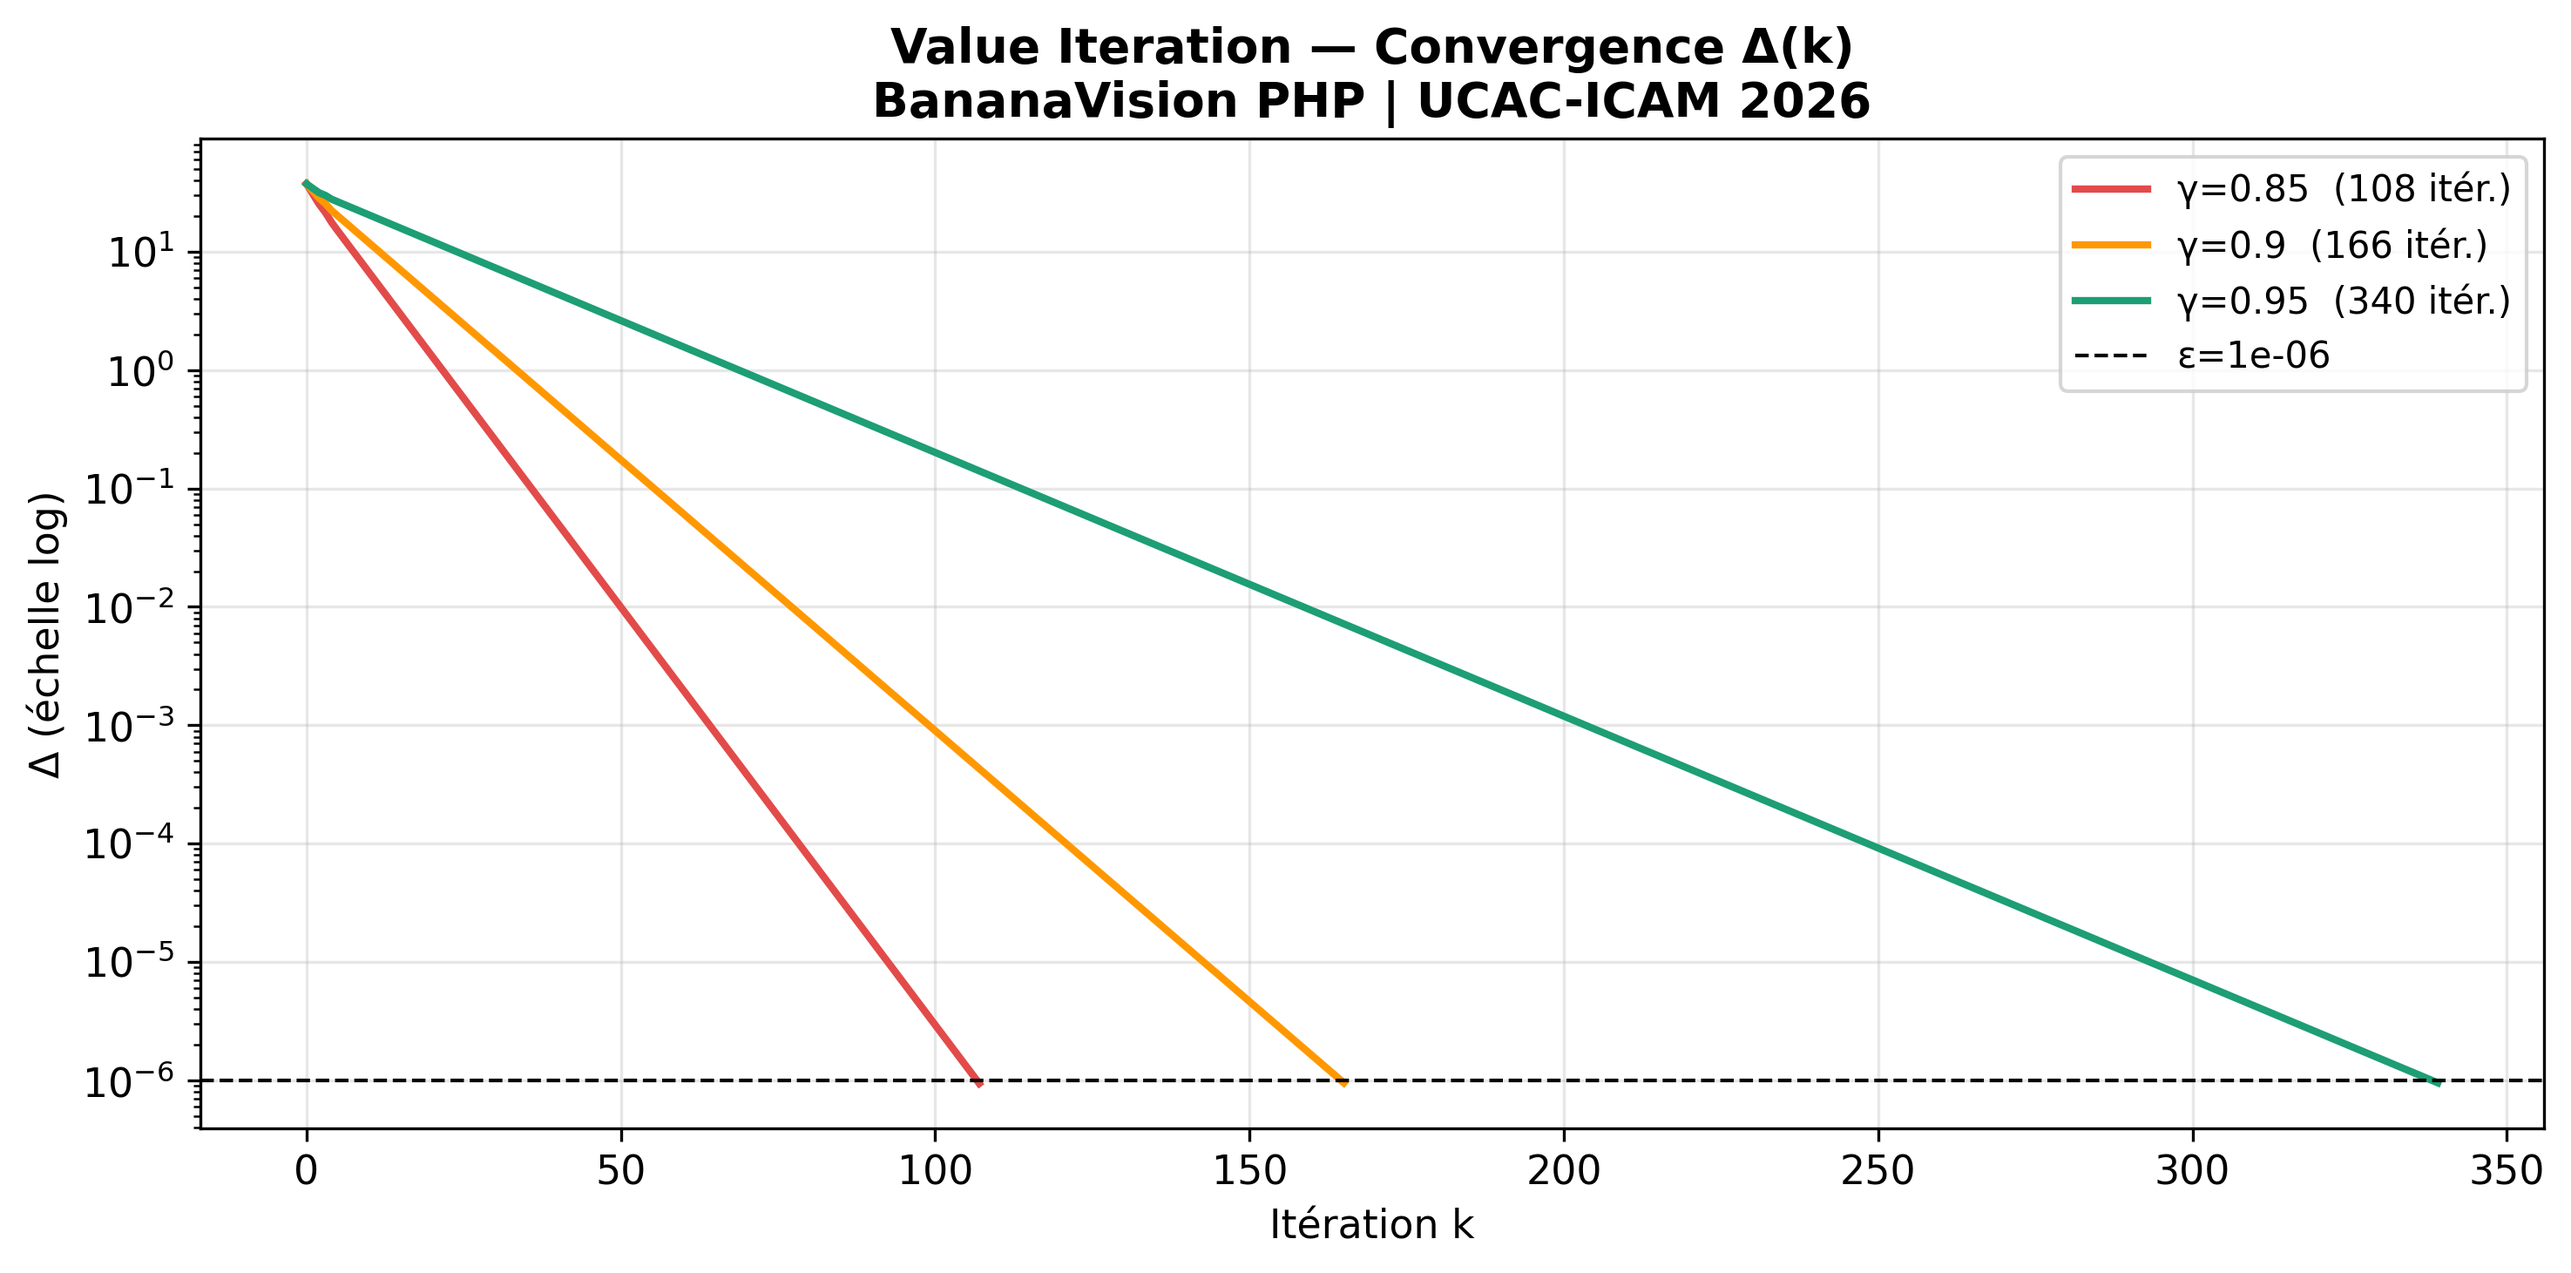
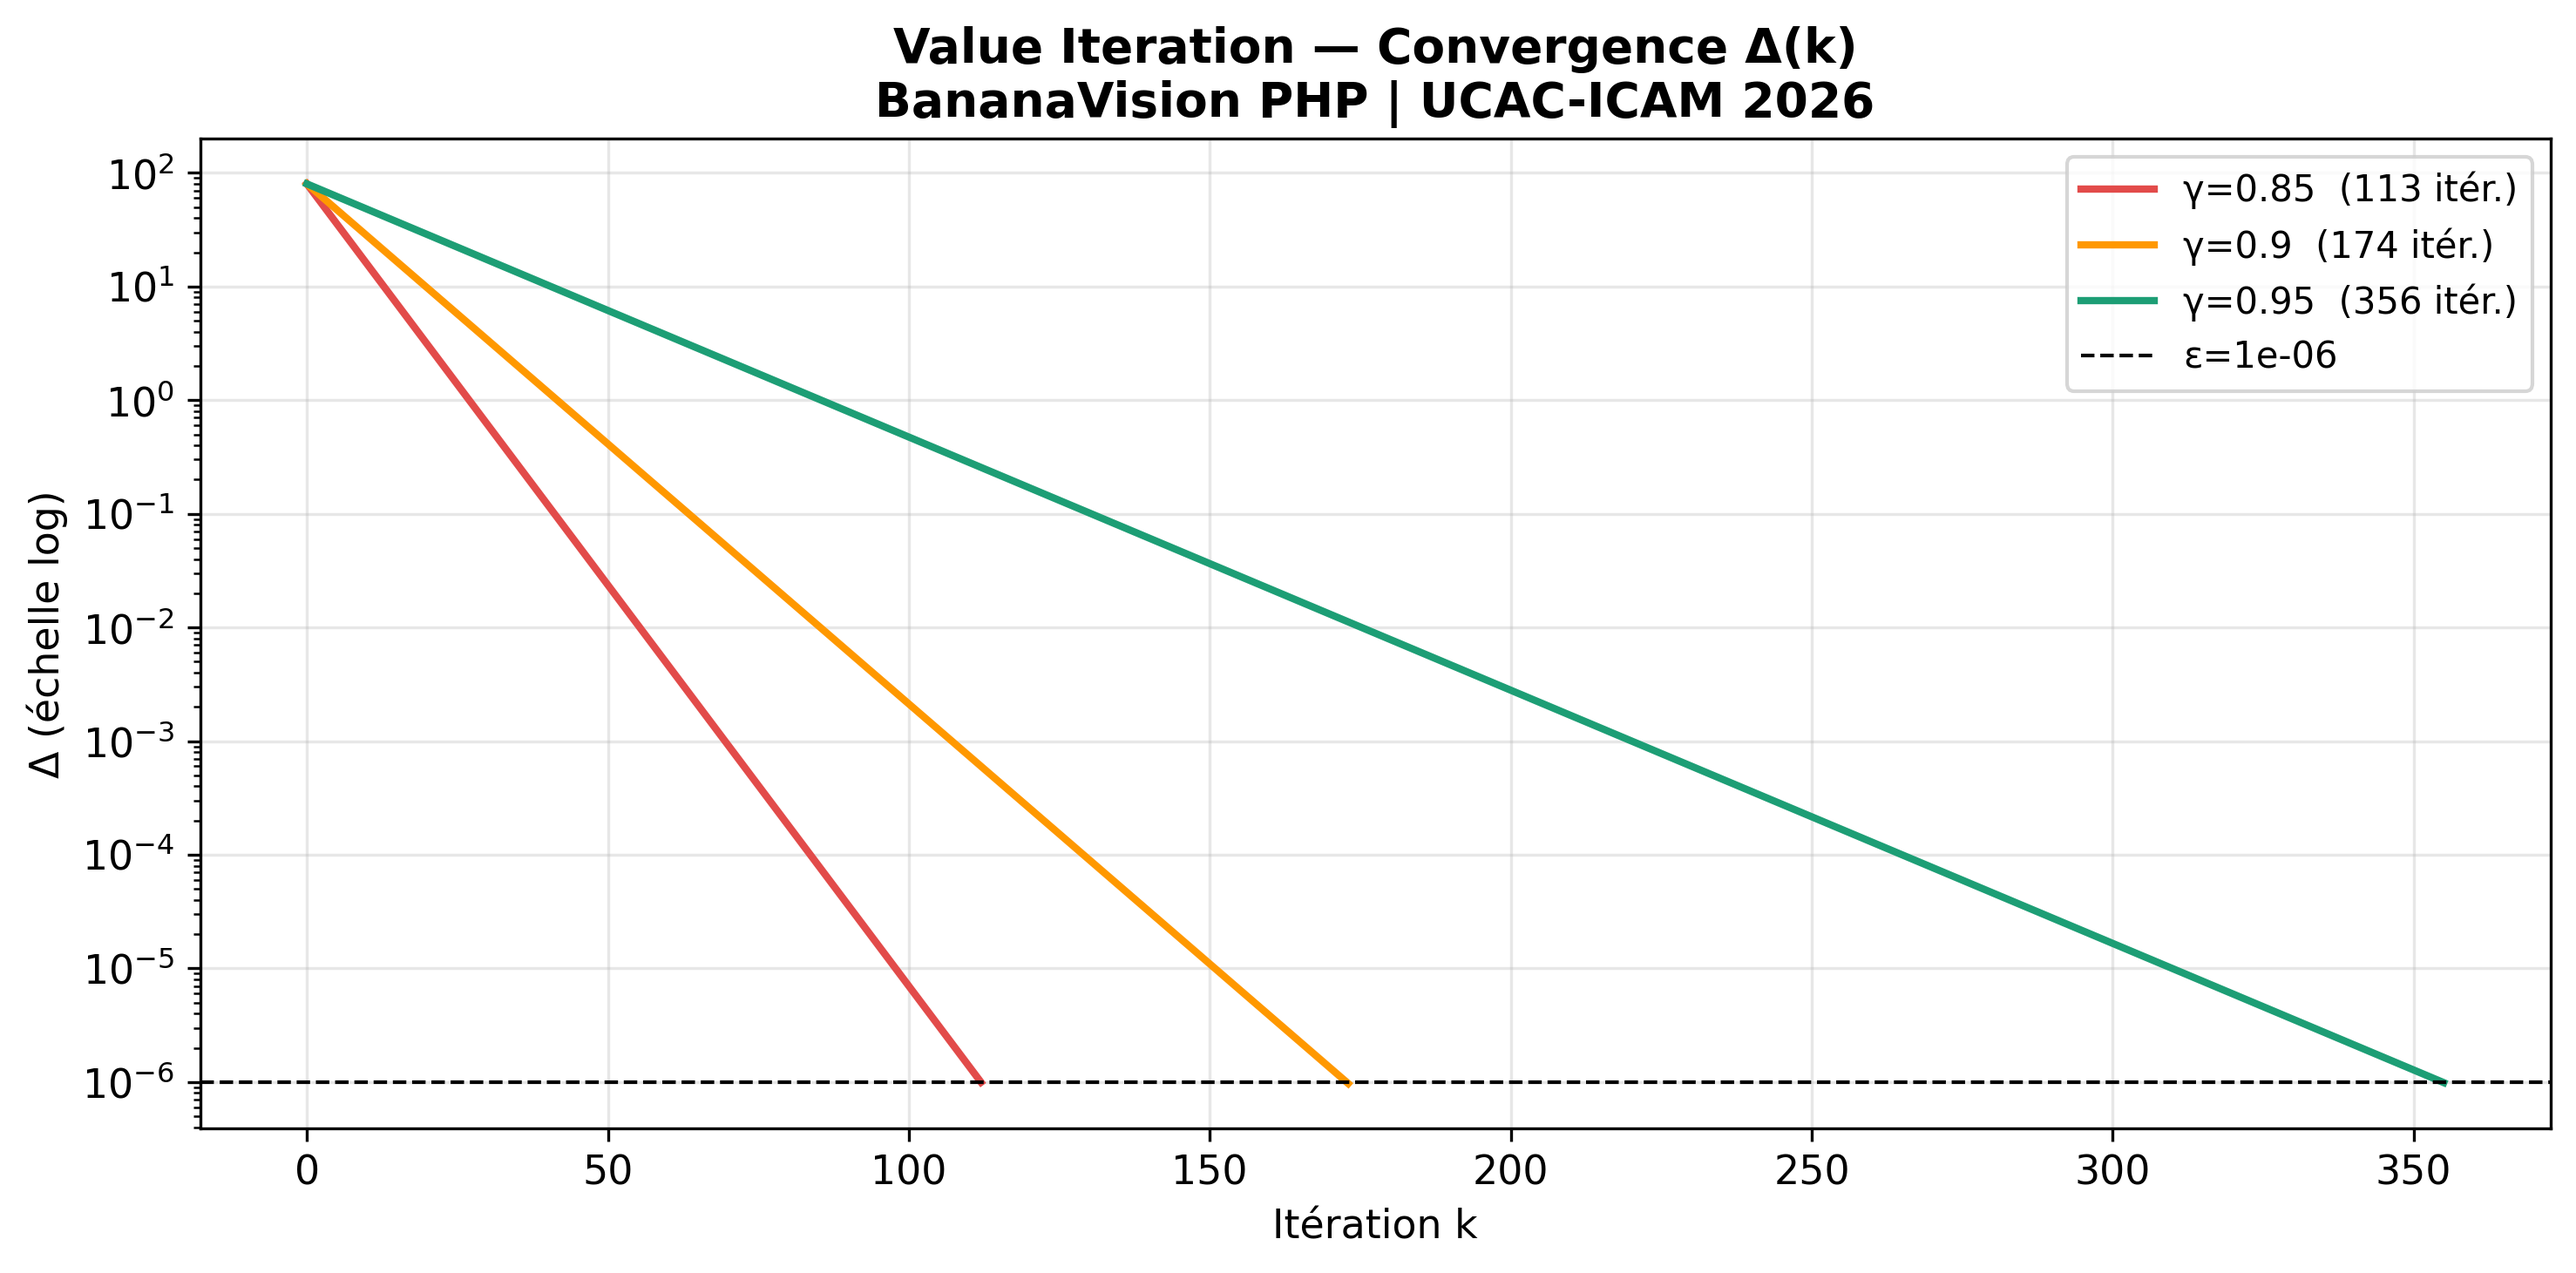
module C opérationnel

diff --git a/moduleC/train_mdp.py b/moduleC/train_mdp.py
@@ -29,7 +29,7 @@ from state_builder import (
 ECONOMIC = {
     # ── Revenus nets par kg (FCFA) ──────────────────────────────────────────
     # Source : FAO Banana Market Review 2023 × taux BCEAO 655.957 FCFA/EUR
-    "PRIX_EXPORT_KG":  350,   # 0.534 EUR/kg CAF Cavendish premium (FAO 2023)
+    "PRIX_EXPORT_KG":  400,   # 0.534 EUR/kg CAF Cavendish premium (FAO 2023)
     "PRIX_LOCAL_KG":   180,   # Marché grossiste Douala/Mungo (MINADER Déc. 2022)
     "PRIX_TRANSFO_KG":  90,   # Farine/jus — note PHP valorisation sous-produits 2023
 
@@ -39,8 +39,8 @@ ECONOMIC = {
 
     # ── Coûts métier (FCFA par fruit) ───────────────────────────────────────
     # Source : PHP note charges opérationnelles pack-house 2023
-    "COUT_CONTROLE":          30,   # immobilisation tapis + temps opérateur (~45s)
-    "COUT_PERTE_FRUIT":       55,   # fruit jeté ou invendu (valeur marchande perdue)
+    "COUT_CONTROLE":          80,   # immobilisation tapis + temps opérateur (~45s)
+    "COUT_PERTE_FRUIT":       100,   # fruit jeté ou invendu (valeur marchande perdue)
     "COUT_REJET_EXPORT":     250,   # rejet douanier/retour conteneur
                                     # (3 rejets × 3M FCFA / 120 000 fruits = 75 FCFA
                                     #  + perte réputation × 3.3 = 250 FCFA estimé)
@@ -97,7 +97,7 @@ R_BASE: dict[str, dict[str, float]] = {
         "export_cat1":   +G_EXPORT,                         # +52.5
         "local_cat2":    +G_LOCAL  - (G_EXPORT - G_LOCAL),  # +1.5  (manque à gagner)
         "transformation":+G_TRANSFO,                        # +13.5
-        "suspend":       -C_CTRL,                           # −30
+        "suspend":       -80,                           # −30
     },
     "mure_sain": {
         "export_cat1":   +G_LOCAL,                          # +27 (risque rejet, pas plein G_EXPORT)
@@ -114,14 +114,14 @@ R_BASE: dict[str, dict[str, float]] = {
     "malade": {
         "export_cat1":   -C_REJET,                          # −250 (rejet douanier)
         "local_cat2":    -C_MALADE,                         # −180 (risque phytosanitaire)
-        "transformation":-5,                                # −5  (CORRIGÉ : coût faible, non +5)
+        "transformation":-95,                                # −5  (CORRIGÉ : coût faible, non +5)
         "suspend":       -C_CTRL,                           # −30 (mais réduit via masque)
     },
 }
 
 # Étape B : probabilité d'erreur de classification
-P_ERR_BASE   = {"fort": 0.05, "moyen": 0.15, "faible": 0.30}
-ALERT_BONUS  = 0.10   # surcroît de risque si alerte=1
+P_ERR_BASE   = {"fort": 0.05, "moyen": 0.10, "faible": 0.30}
+ALERT_BONUS  = 0.10  # surcroît de risque si alerte=1
 
 def p_err(conf: str, alert: int) -> float:
     """
